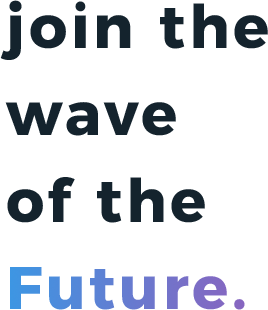
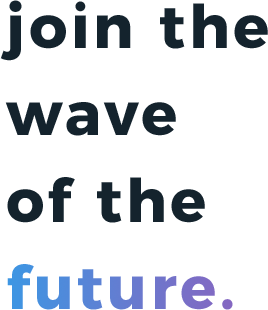
1. Backgrounds 2. Autoloop close on the video. Also, the video should start and stop on user input. 3. Make the 'Future' to 'future'

diff --git a/index.html b/index.html
@@ -114,9 +114,7 @@ License URL: http://creativecommons.org/licenses/by/3.0/
     <!-- container 2 -->
     <!-- //signup_bar -->
     <header id="header" style="height: 65px;border: solid 1px #ECECEC;background: #FFF;">
-      <!-- <div id="login_bar" class="login_bar">
-       
-      </div> -->
+
       <div class="container " style="padding-top: 11px;">
         <div class="row">
           <div class="col-lg-1 col-md-1 hidden-xs hidden-sm logo_login_bar" style="float:left;">
@@ -173,12 +171,13 @@ License URL: http://creativecommons.org/licenses/by/3.0/
           </div>
         </div>
       </div>
+
     </header>
     <!-- //signup_bar -->
     <!-- container 2 End -->
     <!-- container 3 Start -->
     <div class="container" id="_Vision">
-      <!-- row1 -->
+
       <div class="row">
         <div class="col-md-1 "></div>
         <div class="col-md-11 ">
@@ -187,14 +186,16 @@ License URL: http://creativecommons.org/licenses/by/3.0/
               <img src="images/vision_desktop_text.png" class="img-responsive"> </div>
             <div class="clearfix"></div>
             <div class=" col-xs-12 col-sm-12  hidden-lg  hidden-md   false_margin_left ">
-              <img src="images/vid_text_mob.png" class="img-responsive " width="100%" height="100%" style="float:left; "> </div>
+              <img src="images/vid_text_mob.png" class="img-responsive " width="100%" height="100%" style="float:left; ">
+            </div>
           </div>
           <div class="reg_gray_text">This is accomplished by integration across all smart devices, thus creating a seamless experience that effectively
-            and efficiently serves the needs of its users</div>
+            and efficiently serves the needs of its users
+          </div>
           <div class="clearfix"></div>
         </div>
       </div>
-      <!-- container 3 End -->
+
     </div>
     <!-- container 4 Start -->
     <div class="container">
@@ -277,8 +278,8 @@ License URL: http://creativecommons.org/licenses/by/3.0/
           <div class="clearfix"></div>
           <div class="img-responsive">
             <!-- <img src="images/vid_img.png" class="img-responsive" style="width:auto;height:auto;"> -->
-            <video id="videoSrc" controls="false" autoplay="true" style="width:100%;height:auto">
-              <source src="" type="video/mp4"> Your browser does not support HTML5 video. </video>
+            <video id="videoSrc" controls  style="width:100%;height:auto">
+              <source src=""  autoplay="false"  type="video/mp4"> Your browser does not support HTML5 video. </video>
           </div>
           <div class="clearfix"></div>
 
@@ -297,11 +298,12 @@ License URL: http://creativecommons.org/licenses/by/3.0/
     <!-- container 6 Start -->
     <!--  container start -->
     <div class="container">
-      <!-- row -->
       <div class="row">
         <div class="col-md-3 vision"> </div>
         <div class="col-md-7">
-          <div class="vid_heading">Don’t Miss Out on the NEXT Disruptive Innovation! </div>
+          <div class="vid_heading">
+            Don’t Miss Out on the NEXT Disruptive Innovation!
+          </div>
           <div class="clearfix"></div>
           <div class="vid_reg"> Miners registered on the platform will be invited to participate in its development. Limited positions are available!
             </br>
@@ -309,8 +311,6 @@ License URL: http://creativecommons.org/licenses/by/3.0/
         </div>
       </div>
       <div class="col-md-3 vision"> </div>
-
-      <!-- row -->
     </div>
     <!--  container End -->
     <div class="container" id="_HowItWorks">
@@ -414,7 +414,7 @@ License URL: http://creativecommons.org/licenses/by/3.0/
                 <div>
                   <img src="images/ic6.png" class="img-responsive  how_img" style=" text-align:left; display:block;"> </div>
                 <div class="clear"></div>
-                <div class="how_text_reg">Blockchain/Tangle</div>
+                <div class="how_text_reg">Blockchain / Tangle</div>
                 <div class="clear"></div>
                 <div class="how_reg">Utilizing a hybrid of Blockchain and Tangle technologies, we aim to revolutionize decentralize storage and
                   processing.
@@ -445,14 +445,17 @@ License URL: http://creativecommons.org/licenses/by/3.0/
           </div>
           <div class="clearfix"></div>
         </div>
-        <div class="col-md-2 vision"> </div>
+        <div  class="col-md-2 vision"> </div>
       </div>
     </div>
-
+    
     <!--Road Map-->
-    <div id="_RoadMap" style="margin-left:auto; margin-right:auto; text-align:center" class="row ">
+    <div id="_RoadMap" class="row"  style="margin-left:auto; margin-right:auto; text-align:center">
       <!-- <img src="images/roadMap.png" class="img-responsive"> -->
-      <iframe src="./Roadmap/RoadMap.html" style="width:100%;height:600px;border: none;"></iframe>
+      <div class="embed-responsive embed-responsive-16by9" style="height: 600px!important;">
+        <iframe class="embed-responsive-item" src="./Roadmap/RoadMap.html"></iframe>
+      </div>
+      <!-- <iframe src="./Roadmap/RoadMap.html" style="width:100%;min-height:600px;border: none"></iframe> -->
     </div>
 
     <div class="container">
@@ -500,9 +503,9 @@ License URL: http://creativecommons.org/licenses/by/3.0/
     <!--  container 10 End -->
 
     <!--  container 11 TEAM STart -->
-    <div id="_Team"  class="container">
+    <div id="_Team" class="container">
       <!-- row -->
-      <div  class="row  vision" >
+      <div class="row  vision">
         <div class="col-md-2"> </div>
         <div class="col-md-7">
 
@@ -552,11 +555,7 @@ License URL: http://creativecommons.org/licenses/by/3.0/
       </div>
       <div class="col-md-3 vision"> </div>
     </div>
-    <!-- row -->
 
-    <!--  container 11 TEAM End -->
-
-    <!--  container 12 STart -->
     <div class="container">
       <!-- row -->
       <div class="row">
@@ -719,7 +718,7 @@ License URL: http://creativecommons.org/licenses/by/3.0/
       </div>
       <!--  container 12 End -->
     </div>
-    <!--  container 12 FOOTER STart -->
+
     <div class="col-md-12 footer_imgage_bg ">
       <!--  container 10 STart -->
       <div class="container">
@@ -762,8 +761,7 @@ License URL: http://creativecommons.org/licenses/by/3.0/
       <!--  container 10 End -->
     </div>
 
-    <!--  container 12 End -->
-    <!-- end page -->
+
   </div>
 
 
@@ -913,7 +911,7 @@ License URL: http://creativecommons.org/licenses/by/3.0/
   <script src="js/jquery.waypoints.min.js"></script>
   <script src="js/waypointClick.js"></script>
   <!-- <script> zingchart.MODULESDIR = "https://cdn.zingchart.com/modules/"; ZC.LICENSE = ["569d52cefae586f634c54f86dc99e6a9", "ee6b7db5b51705a13dc2339db3edaf6d"];</script> -->
- 
+
 
 </body>
 

diff --git a/css/custom_style.css b/css/custom_style.css
@@ -77,13 +77,13 @@ vertical-align:bottom;
 padding-top:60px;}
 /*-- page --*/ 
 .page{
-	background:url(../images/banner_new.png) no-repeat right top;
-	-webkit-background-size:contain;
-	-moz-background-size:contain;
+	background:url(../images/try_2/banner_new_desktop.png)no-repeat right top;
+	-webkit-background-size:contain; 
+	-moz-background-size:contain; 
 	-o-background-size:contain;
-	-ms-background-size:contain;
-	background-size: contain;
-	
+	-ms-background-size:contain; 	
+	background-size:contain; 
+	min-height: 790px;
 } 
 
 /*-Fonts ---*/
@@ -451,8 +451,8 @@ padding-bottom:20px;
  #sidebar.affix {
                 position: fixed;
                 top: 200px;
-                width: auto;
-                z-index: 1;
+                width: 228px;
+                z-index: 999;
             }
 						
 .listtext{	font-family:FontLight;
@@ -484,9 +484,7 @@ padding-bottom:20px;
             list-style-type: circle !important;
         }
 		
-.form-group{
-	padding-top:5px; padding-bottom:5px;
-}
+.form-group{}
 
 .li-text{
     color:#737373;
@@ -512,8 +510,9 @@ li-text:focus{
 }
 
 video::-webkit-media-controls {
-    display: none;
+    /* display: none; */
   }
+
 
 
 
@@ -824,6 +823,9 @@ margin-right:0px; }
 
 
 @media (max-width:1024px){
+
+
+	
 .padding_top_bottom_false{
     padding-bottom: 0px;
     padding-top: 0px;
@@ -1116,6 +1118,16 @@ padding-top:40px;}
 
 @media(max-width:667px){
 
+	.page{ 
+		background:url(../images/try_2/banner_new_mobile.png)no-repeat right top;
+		-webkit-background-size:contain; 
+		-moz-background-size:contain; 
+		-o-background-size:contain;
+		-ms-background-size:contain; 	
+		background-size:contain; 
+		min-height: 790px;
+	} 
+
 	.padding_top_bottom_false{
 		padding-bottom: 0px;
 		padding-top: 0px;
@@ -1144,6 +1156,16 @@ padding-top:40px;}
 
 
 @media (max-width:640px){
+
+	.page{ 
+		background:url(../images/try_2/banner_new_mobile.png)no-repeat right top;
+		-webkit-background-size:contain; 
+		-moz-background-size:contain; 
+		-o-background-size:contain;
+		-ms-background-size:contain; 	
+		background-size:contain; 
+		min-height: 790px;
+	} 
 
 	.padding_top_bottom_false{
 		padding-bottom: 0px;
@@ -1245,6 +1267,16 @@ color:#26a5ee;}
 
 @media(max-width:600px){
 
+	.page{ 
+		background:url(../images/try_2/banner_new_mobile.png)no-repeat right top;
+		-webkit-background-size:contain; 
+		-moz-background-size:contain; 
+		-o-background-size:contain;
+		-ms-background-size:contain; 	
+		background-size:contain; 
+		min-height: 790px;
+	} 
+
 	.padding_top_bottom_false{
 		padding-bottom: 0px;
 		padding-top: 0px;
@@ -1267,6 +1299,15 @@ text-align:right;
 
 @media(max-width:568px){
 
+	.page{ 
+		background:url(../images/try_2/banner_new_mobile.png)no-repeat right top;
+		-webkit-background-size:contain; 
+		-moz-background-size:contain; 
+		-o-background-size:contain;
+		-ms-background-size:contain; 	
+		background-size:contain; 
+		min-height: 790px;
+	} 
 
 	.padding_top_bottom_false{
 		padding-bottom: 0px;
@@ -1292,6 +1333,15 @@ text-align:right;
 
 @media (max-width:480px){
 
+	.page{ 
+		background:url(../images/try_2/banner_new_mobile.png)no-repeat right top;
+		-webkit-background-size:contain; 
+		-moz-background-size:contain; 
+		-o-background-size:contain;
+		-ms-background-size:contain; 	
+		background-size:contain; 
+		min-height: 790px;
+	} 
 
 	.padding_top_bottom_false{
 		padding-bottom: 0px;
@@ -1373,6 +1423,16 @@ p {
 
 @media(max-width:414px){
 
+	.page{ 
+		background:url(../images/try_2/banner_new_mobile.png)no-repeat right top;
+		-webkit-background-size:contain; 
+		-moz-background-size:contain; 
+		-o-background-size:contain;
+		-ms-background-size:contain; 	
+		background-size:contain; 
+		min-height: 790px;
+	} 
+
 	.padding_top_bottom_false{
 		padding-bottom: 0px;
 		padding-top: 0px;
@@ -1407,6 +1467,16 @@ text-align:right;
 
 }
 @media(max-width:384px){
+
+	.page{ 
+		background:url(../images/try_2/banner_new_mobile.png)no-repeat right top;
+		-webkit-background-size:contain; 
+		-moz-background-size:contain; 
+		-o-background-size:contain;
+		-ms-background-size:contain; 	
+		background-size:contain; 
+		min-height: 790px;
+	} 
 	.padding_top_bottom_false{
 		padding-bottom: 0px;
 		padding-top: 0px;
@@ -1428,6 +1498,16 @@ text-align:right;
 
 } 
 @media(max-width:320px){
+
+	.page{ 
+		background:url(../images/try_2/banner_new_mobile.png)no-repeat right top;
+		-webkit-background-size:contain; 
+		-moz-background-size:contain; 
+		-o-background-size:contain;
+		-ms-background-size:contain; 	
+		background-size:contain; 
+		min-height: 790px;
+	} 
 
 	.padding_top_bottom_false{
 		padding-bottom: 0px;

diff --git a/Roadmap/RoadMap.html b/Roadmap/RoadMap.html
@@ -16,9 +16,9 @@
   <div class="roadmap-container">
     <div class="frise-dom-container">
       <div class="frise-dom">
-        <div class="title-bar">
+        <div  class="title-bar">
           <h2>Road map</h2>
-          <div class="subtitle">
+          <div  class="subtitle">
             <h3>Our development roadmap for
               <span>the next year.</span>
             </h3>

diff --git a/js/waypointClick.js b/js/waypointClick.js
@@ -176,7 +176,7 @@ var waypointRoadMapUp = new Waypoint({
       $("#liteam").removeAttr("type", "disc");
     }
   },
-  offset: '2%'
+  offset: -50
 })
 //RoadMap End
 
